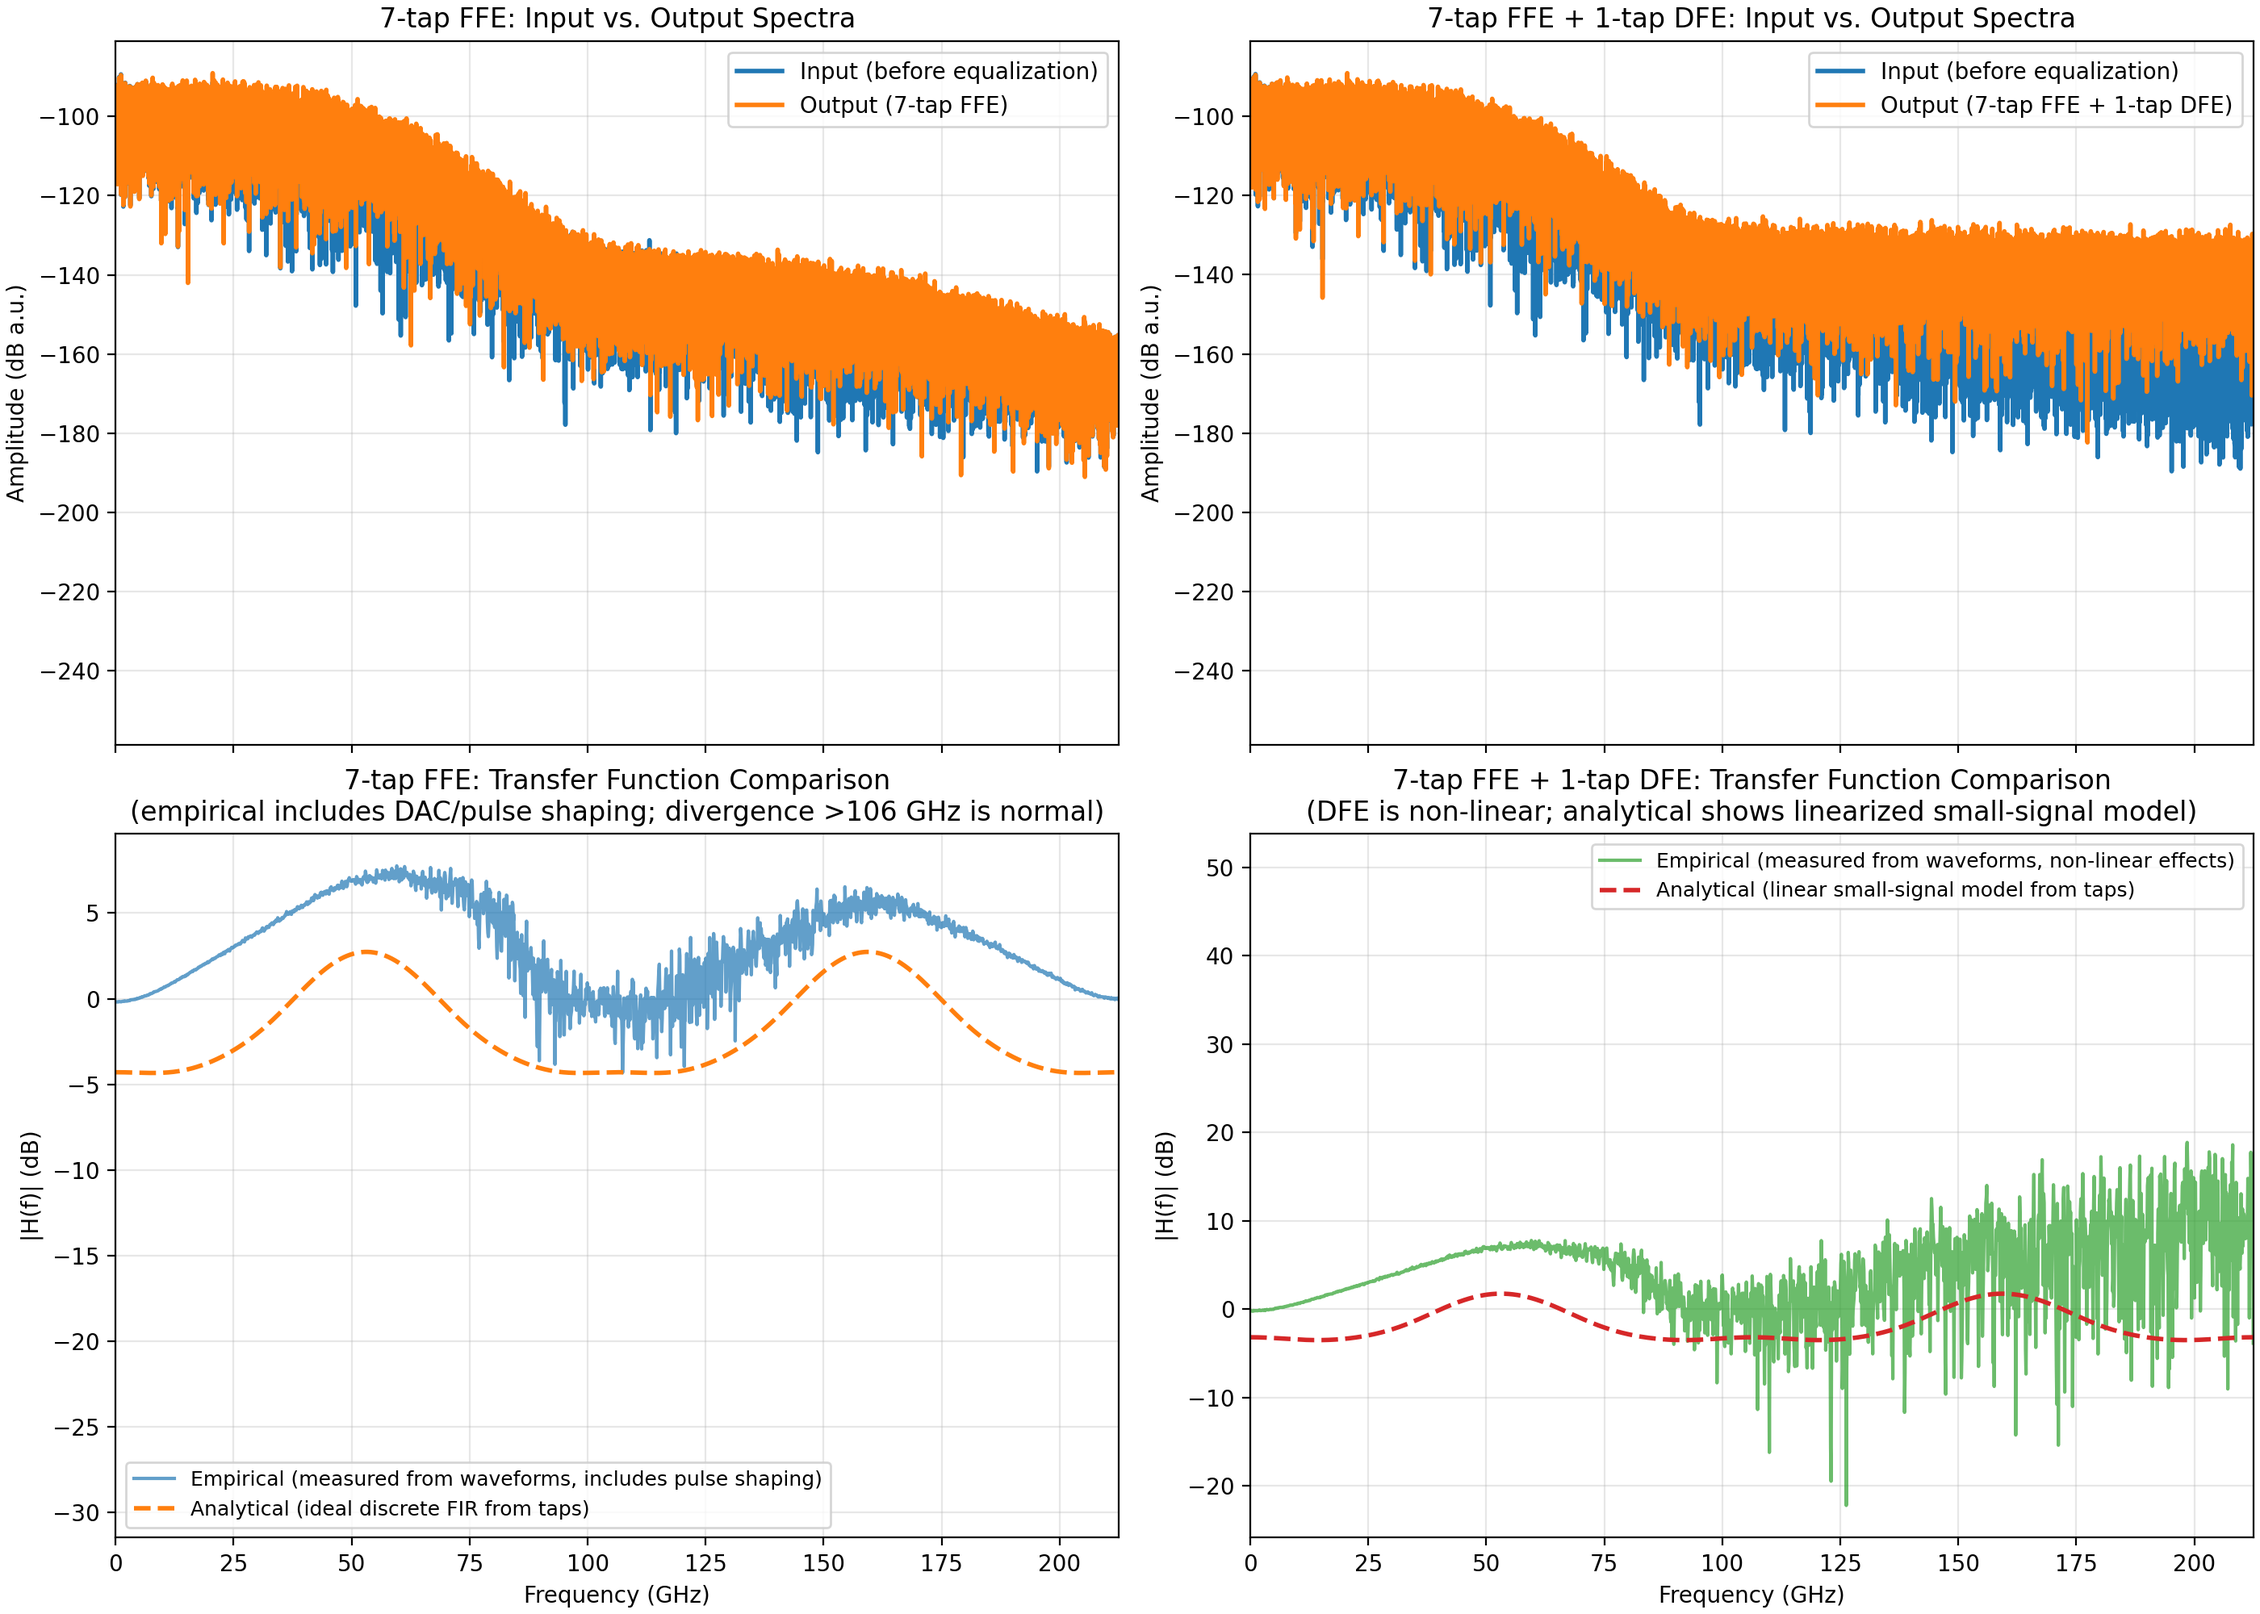
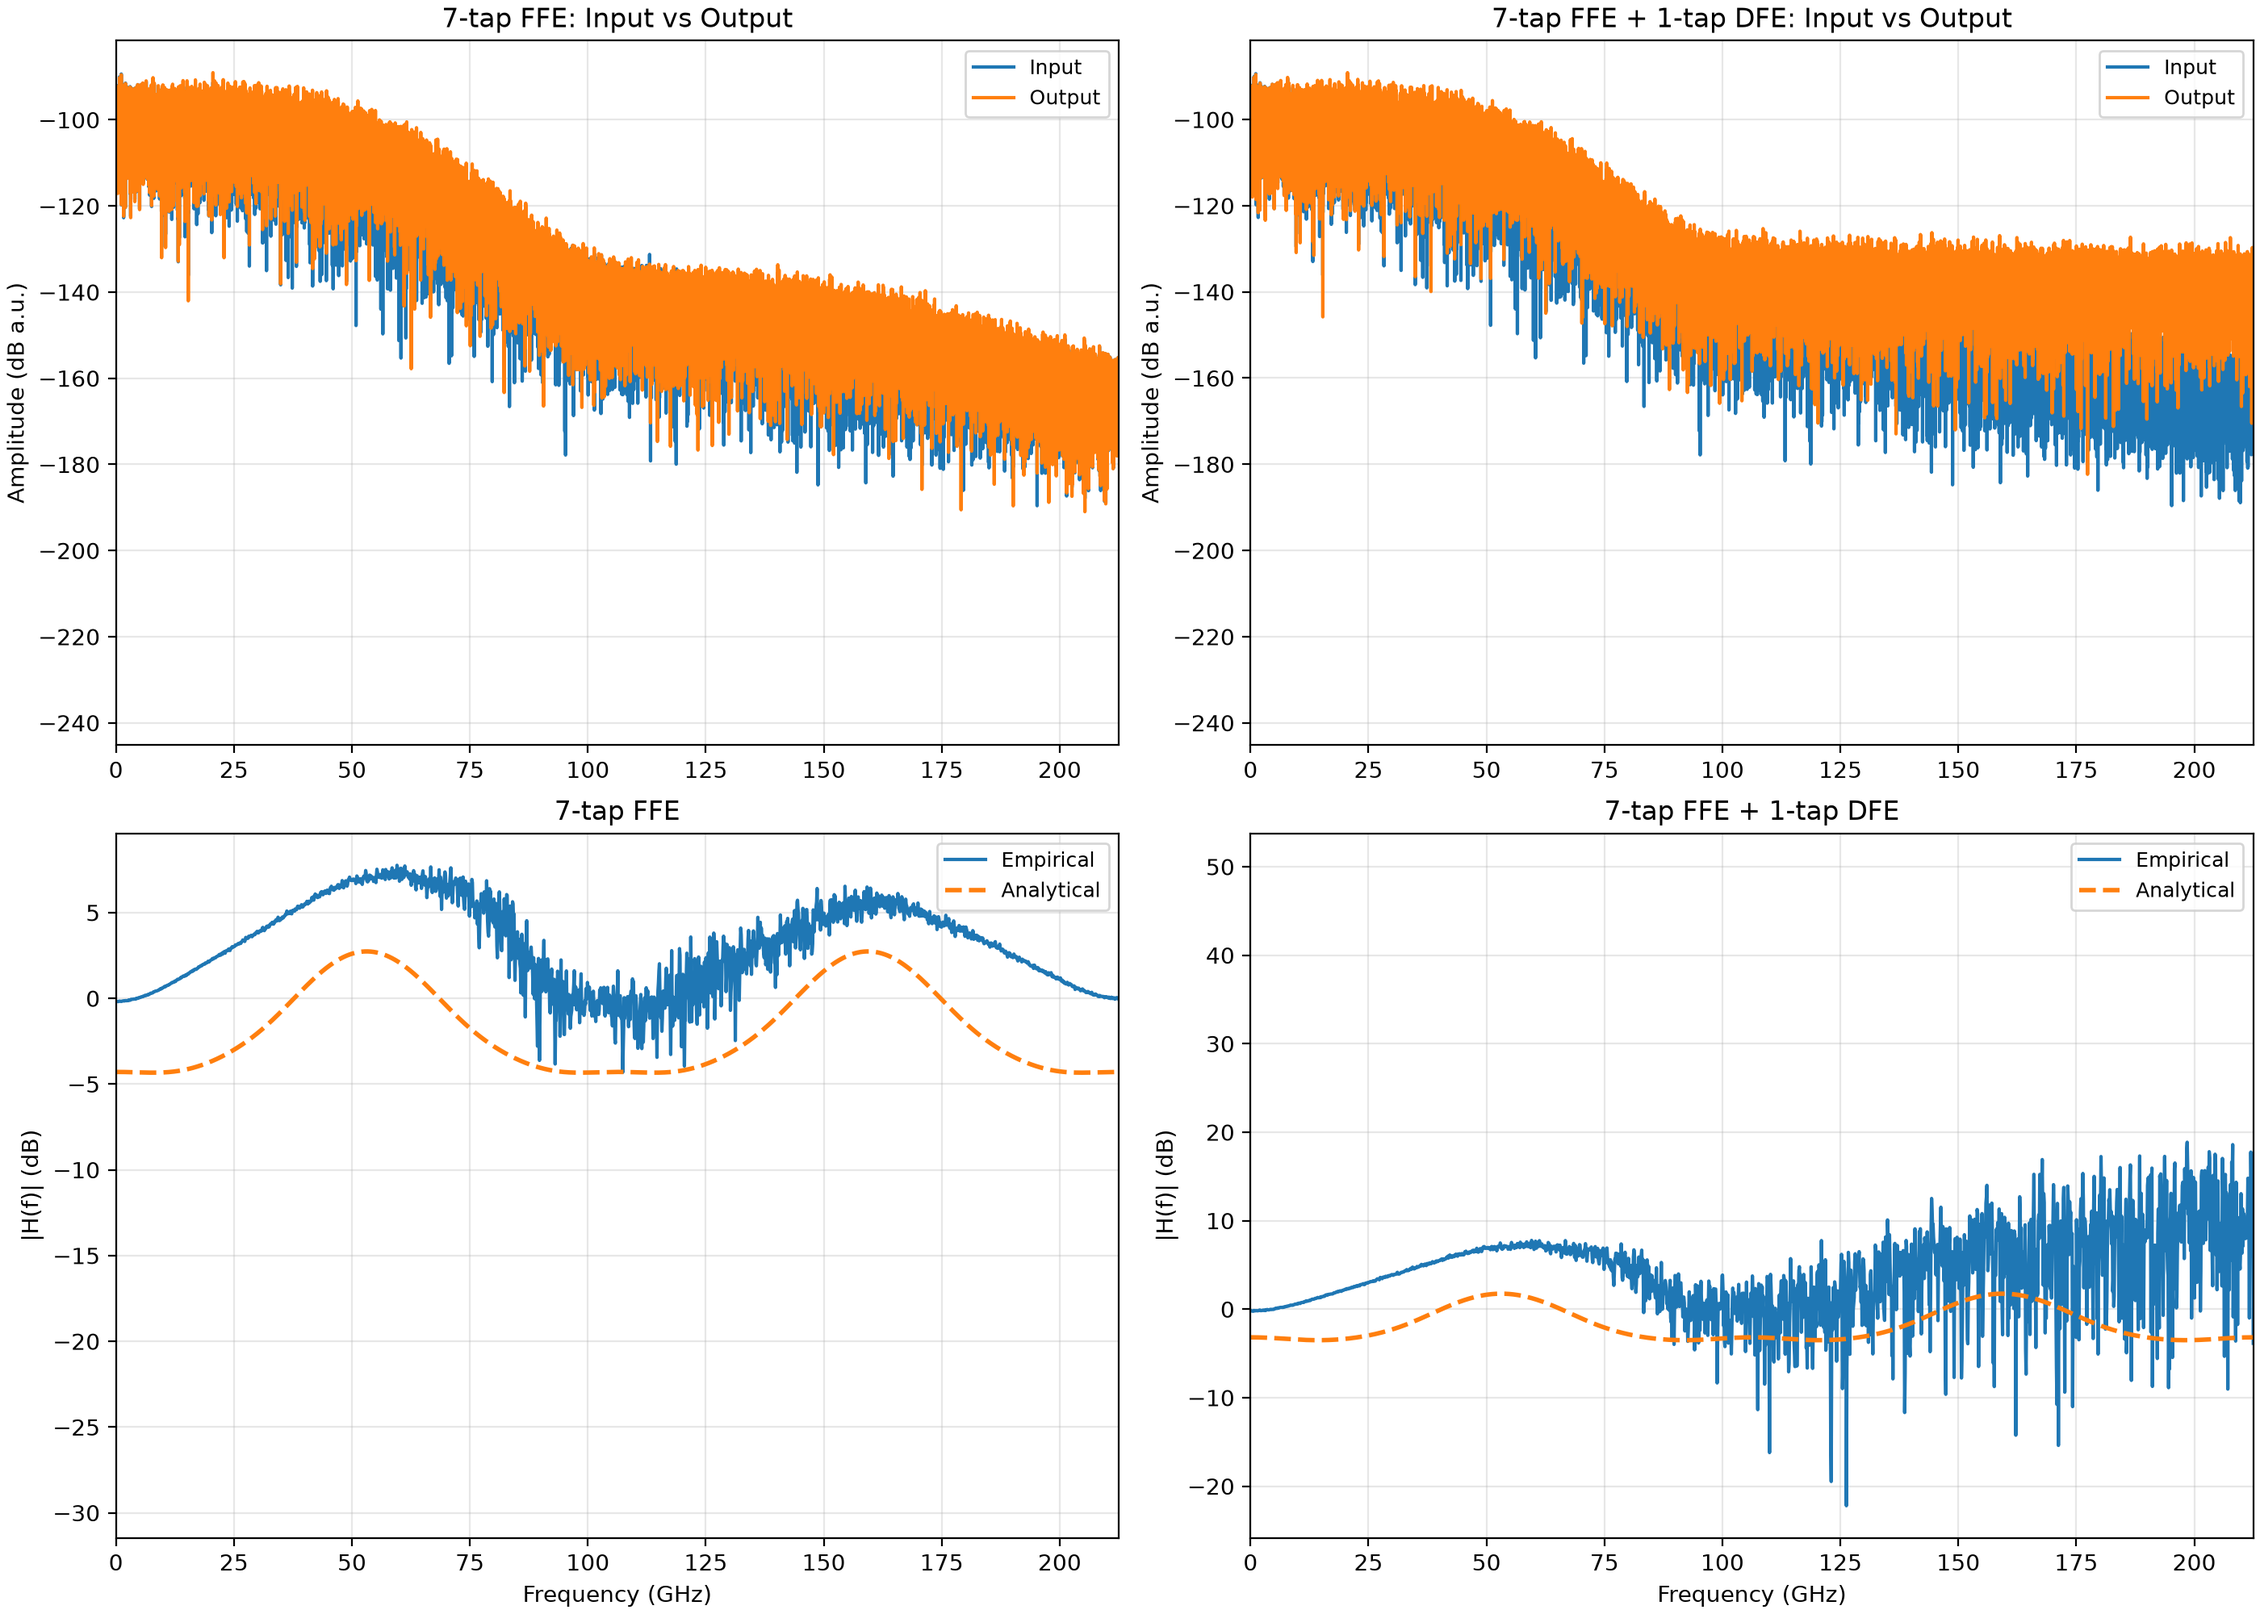
up

diff --git a/analyze_ffe_final.py b/analyze_ffe_final.py
@@ -1,0 +1,134 @@
+#!/usr/bin/env python3
+"""Compare measured and analytical FFE/DFE frequency responses."""
+
+import argparse
+from pathlib import Path
+
+import matplotlib.pyplot as plt
+import numpy as np
+
+
+FFE_TAPS = [0.05, -0.15, 0.85, -0.20, 0.08, -0.03, 0.01]
+DFE_TAP = 0.12
+SCRIPT_DIR = Path(__file__).resolve().parent
+
+
+def read_waveform(path: Path) -> tuple[np.ndarray, np.ndarray]:
+    try:
+        data = np.loadtxt(path, delimiter=",", comments="#", skiprows=7)
+    except (OSError, ValueError) as error:
+        raise ValueError(f"Cannot read {path}: {error}") from error
+    if data.ndim != 2 or data.shape[1] != 2 or len(data) < 2:
+        raise ValueError(f"{path} must contain at least two time,amplitude rows")
+    time = data[:, 0] * 1e-9
+    intervals = np.diff(time)
+    dt = float(np.median(intervals))
+    if dt <= 0:
+        raise ValueError(f"{path} does not have an increasing time axis")
+    jitter = np.max(np.abs(intervals - dt)) / dt
+    if jitter > 0.5:
+        raise ValueError(f"{path} has excessive time-axis jitter")
+    return time, data[:, 1]
+
+
+def transfer(input_signal: np.ndarray, output_signal: np.ndarray, fs: float, size: int):
+    size = min(size, len(input_signal))
+    count = len(input_signal) // size
+    if not count:
+        raise ValueError("Trace is shorter than one transfer-function segment")
+    window = np.hanning(size)
+    power = np.zeros(size // 2 + 1)
+    cross = np.zeros(size // 2 + 1, dtype=complex)
+    for index in range(count):
+        start = index * size
+        stop = start + size
+        input_fft = np.fft.rfft(input_signal[start:stop] * window)
+        output_fft = np.fft.rfft(output_signal[start:stop] * window)
+        power += np.abs(input_fft) ** 2
+        cross += output_fft * np.conj(input_fft)
+    epsilon = max(np.max(power) * 1e-10, 1e-12)
+    return np.fft.rfftfreq(size, 1 / fs), cross / (power + epsilon)
+
+
+def spectrum(values: np.ndarray) -> np.ndarray:
+    window = np.hanning(len(values))
+    result = np.abs(np.fft.rfft((values - values.mean()) * window)) / window.sum()
+    result[1:-1] *= 2
+    return result
+
+
+def analytical(frequency: np.ndarray, taps: list[float], dfe: float, symbol_period: float):
+    tap_index = np.arange(len(taps))
+    ffe = np.dot(
+        np.exp(-2j * np.pi * np.outer(frequency, tap_index) * symbol_period), taps
+    )
+    dfe_denominator = 1 - dfe * np.exp(-2j * np.pi * frequency * symbol_period)
+    return ffe, ffe / (dfe_denominator + np.finfo(float).eps)
+
+
+def arguments() -> argparse.Namespace:
+    parser = argparse.ArgumentParser(description=__doc__)
+    parser.add_argument("--input", type=Path, default=SCRIPT_DIR / "rx_before_eq.csv")
+    parser.add_argument("--output-ffe", type=Path, default=SCRIPT_DIR / "rx_after_eq.csv")
+    parser.add_argument("--output-dfe", type=Path, default=SCRIPT_DIR / "rx_after_eq2.csv")
+    parser.add_argument("--ffe-taps", type=float, nargs=7, default=FFE_TAPS)
+    parser.add_argument("--dfe-tap", type=float, default=DFE_TAP)
+    parser.add_argument("--samples-per-symbol", type=int, default=16)
+    parser.add_argument("--max-frequency-ghz", type=float, default=212.5)
+    parser.add_argument("--figure", type=Path, default=SCRIPT_DIR / "ffe_dfe_comparison.png")
+    return parser.parse_args()
+
+
+def main() -> None:
+    args = arguments()
+    traces = [read_waveform(path) for path in (args.input, args.output_ffe, args.output_dfe)]
+    dt = float(np.median(np.diff(traces[0][0])))
+    for time, _ in traces[1:]:
+        if not np.isclose(dt, np.median(np.diff(time)), rtol=0.05):
+            raise ValueError("All traces must have compatible sample periods")
+
+    count = min(len(amplitude) for _, amplitude in traces)
+    signals = [amplitude[:count] - amplitude[:count].mean() for _, amplitude in traces]
+    sample_rate = 1 / dt
+    symbol_period = args.samples_per_symbol * dt
+    frequency = np.fft.rfftfreq(count, dt)
+    transfer_frequency, ffe_empirical = transfer(signals[0], signals[1], sample_rate, 16384)
+    _, dfe_empirical = transfer(signals[0], signals[2], sample_rate, 16384)
+    ffe_analytical, dfe_analytical = analytical(
+        frequency, args.ffe_taps, args.dfe_tap, symbol_period
+    )
+
+    spectra = [spectrum(signal) for signal in signals]
+    db = lambda values: 20 * np.log10(np.abs(values) + 1e-12)
+    figure, axes = plt.subplots(2, 2, figsize=(14, 10), layout="constrained")
+    for axis, output, title in zip(
+        axes[0], spectra[1:], ("7-tap FFE", "7-tap FFE + 1-tap DFE")
+    ):
+        axis.plot(frequency / 1e9, db(spectra[0]), label="Input")
+        axis.plot(frequency / 1e9, db(output), label="Output")
+        axis.set(ylabel="Amplitude (dB a.u.)", title=f"{title}: Input vs Output")
+
+    for axis, measured, ideal, title in zip(
+        axes[1],
+        (ffe_empirical, dfe_empirical),
+        (ffe_analytical, dfe_analytical),
+        ("7-tap FFE", "7-tap FFE + 1-tap DFE"),
+    ):
+        axis.plot(transfer_frequency / 1e9, db(measured), label="Empirical")
+        axis.plot(frequency / 1e9, db(ideal), "--", label="Analytical", linewidth=2)
+        axis.set(xlabel="Frequency (GHz)", ylabel="|H(f)| (dB)", title=title)
+
+    if args.max_frequency_ghz <= 0:
+        raise ValueError("--max-frequency-ghz must be positive")
+    for axis in axes.flat:
+        axis.set_xlim(0, args.max_frequency_ghz)
+        axis.grid(True, alpha=0.3)
+        axis.legend(fontsize=9)
+    figure.savefig(args.figure, dpi=200)
+    print(f"Samples: {count}")
+    print(f"Sample rate: {sample_rate / 1e9:.9g} GHz")
+    print(f"Saved: {args.figure}")
+
+
+if __name__ == "__main__":
+    main()
